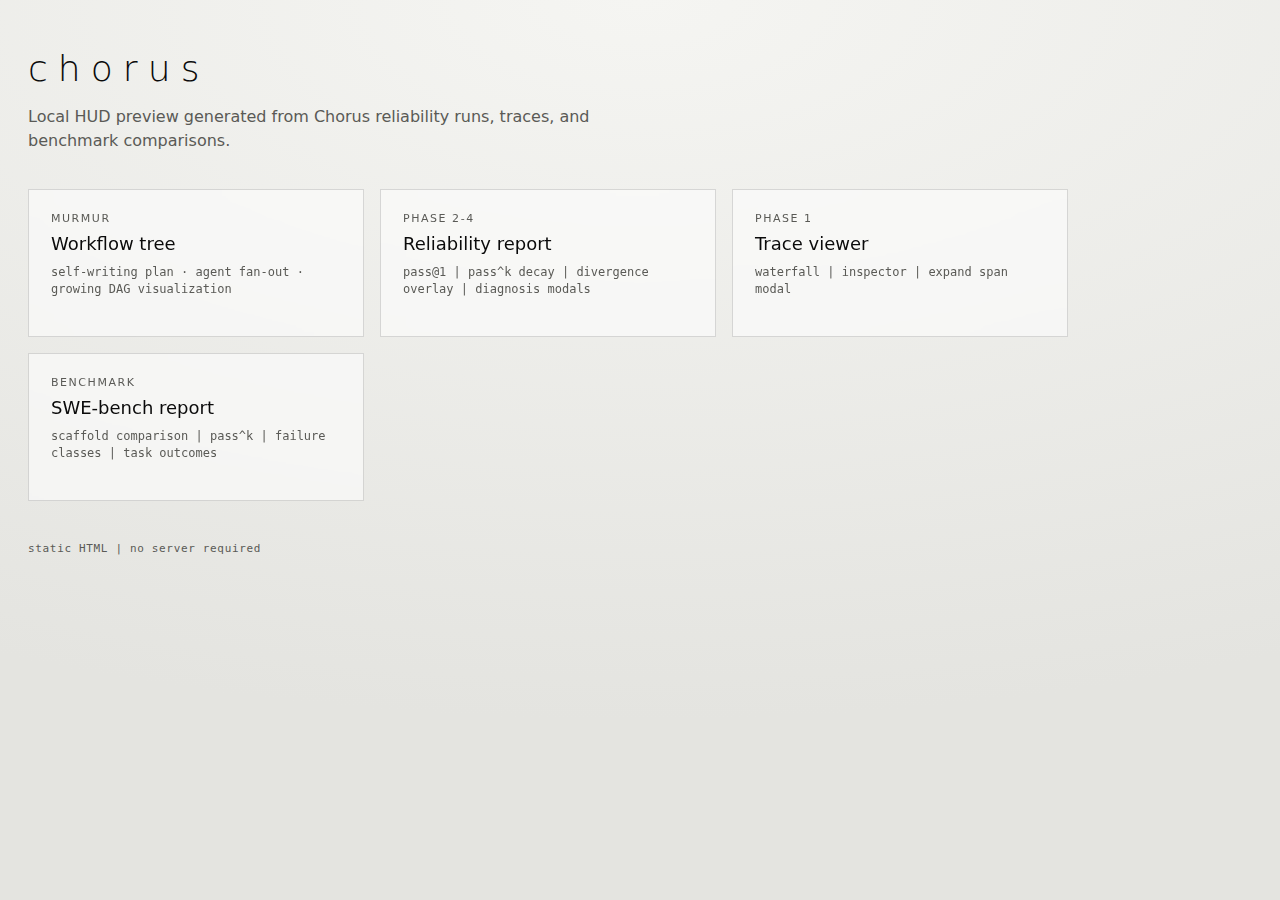
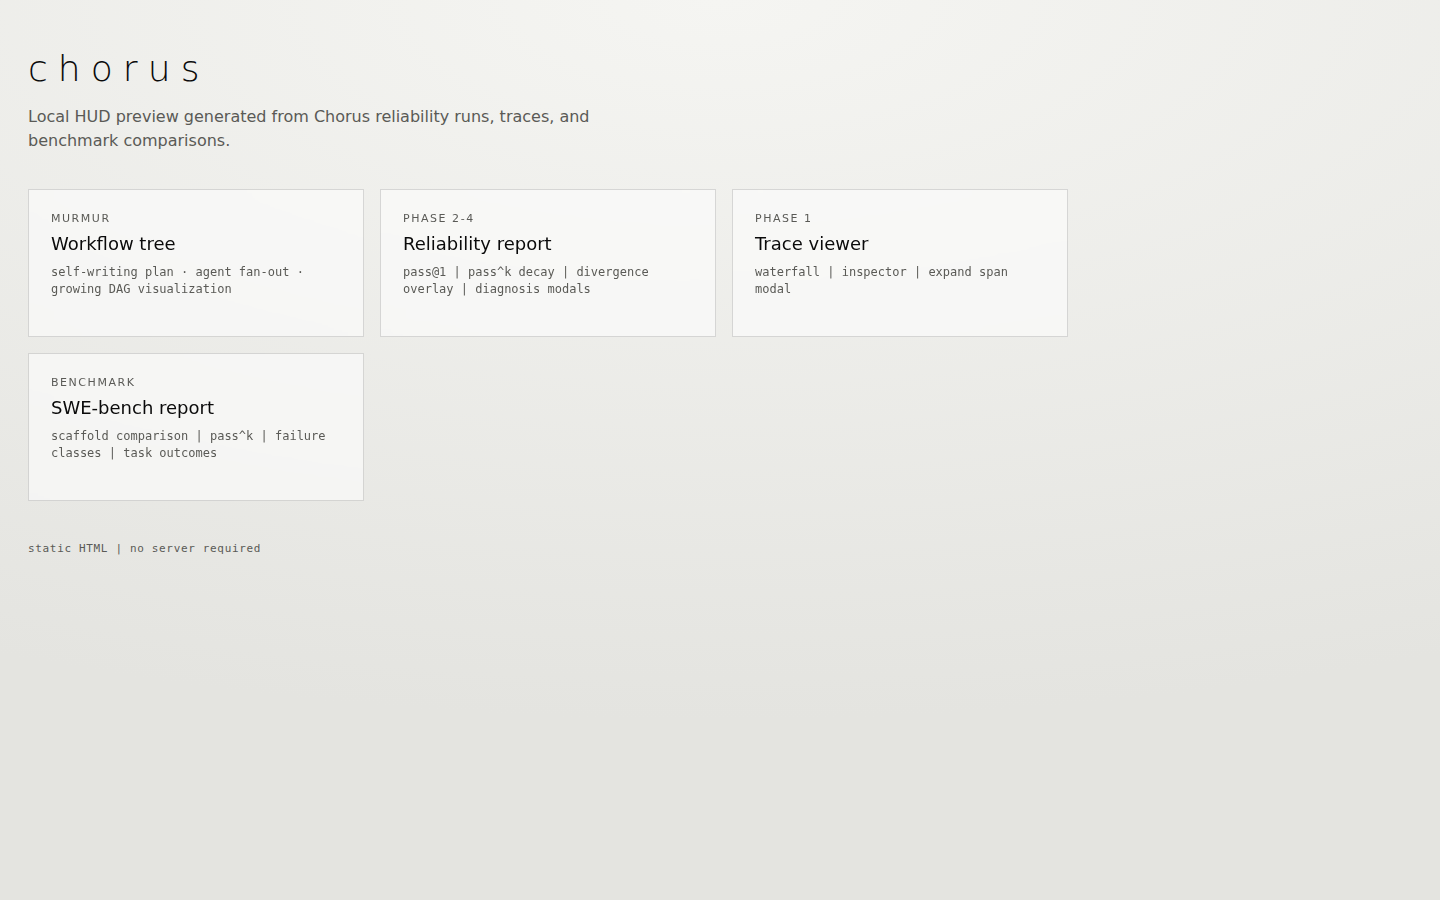
docs: professional README rewrite with trace viewer screenshot + project rename
- Rewrite README intro with professional Murmur description, comparison table,
  and detailed feature overview
- Add trace-viewer.png screenshot captured via Playwright
- Embed all three screenshots (workflow, fan report, trace viewer) in README
- Update pyproject.toml: rename to murmur-ai-harness, professional description
- Update GitHub origin URL to match renamed repo
- All 123 tests pass, ruff clean

diff --git a/README.md b/README.md
@@ -1,43 +1,66 @@
 <!--
-This is the repo entrypoint for humans. It explains what Murmur is, what works
-right now, and the commands needed to install, test, and run the local demo.
+Murmur — self-writing multi-agent orchestration for cost-efficient AI.
 -->
 
 # Murmur
 
 > *Thousands of cheap birds flocking into one intelligent shape.*
 
-Murmur is a self-writing multi-agent harness for cheap models. Give it a task
-and a cheap model (DeepSeek V4, or a local model via Ollama) — a **planner**
-writes its own task-specific workflow, and a **runtime** executes it by spawning
-many small subagents in parallel. Expensive patterns like fan-out, tournaments,
-and adversarial verification become pennies instead of dollars.
+**Murmur** is an open-source, self-writing multi-agent orchestration framework
+that makes frontier-grade AI workflows accessible on commodity models. Instead
+of hard-wiring agent graphs or paying premium rates for a single powerful model,
+Murmur's **planner** reads your task and *generates* its own typed workflow — a
+DAG of parallel subagents, adversarial verifiers, tournament rankers, and
+iterative repair loops — then its **runtime** executes that plan concurrently,
+merging results under a strict token budget.
 
-Murmur also includes a **contract and proof layer** for AI-generated code
-changes — turning a coding task into an enforceable engineering contract, running
-an agent through policy-controlled tools, verifying the resulting diff, and
-emitting a PR-ready proof package.
+### Why Murmur?
 
-The architecture is Python-first and hexagonal: the domain owns contracts,
-events, replay, metrics, and run orchestration; models, agents, storage,
-tracing, judges, and reports plug in through ports.
+| Approach | Workflow design | Model requirement | Cost |
+|---|---|---|---|
+| Static graphs (LangGraph, CrewAI) | Developer hand-codes | Any | Medium |
+| Claude Code dynamic workflows | Self-writing | Frontier only | High |
+| **Murmur** | **Self-writing** | **Cheap / local** | **~100× lower** |
+
+Heavy orchestration patterns — fan-out, tournaments, adversarial verification,
+closed-loop repair — become the *default* when each call costs fractions of a
+cent. Murmur manufactures reliability through **volume**, not model size.
+
+The framework also ships a **contract-and-proof layer** for AI-generated code
+changes: enforceable engineering contracts, policy-controlled tool execution,
+diff verification, and PR-ready proof packages — backed by distribution-aware
+reliability metrics (`pass@1` with Wilson CI, projected and empirical `pass^k`,
+divergence analysis, and cost-aware judgment cascades).
+
+The architecture is Python-first and hexagonal — the domain owns contracts,
+events, replay, metrics, and orchestration; models, agents, storage, tracing,
+judges, and reports plug in through ports.
+
+---
 
 ## Screenshots
 
-**Murmur Workflow Workbench** — interactive Three.js tree where you compose and
-execute multi-agent workflows:
+**Workflow Workbench** — interactive Three.js workspace for composing and
+visualizing multi-agent workflow DAGs in real time:
 
-![Murmur Workflow Workbench](docs/images/murmur-workflow.png)
+![Workflow Workbench](docs/images/murmur-workflow.png)
 
-**Reliability Fan Report** — pass@1, pass^k decay curve, divergence overlay,
-judgment cascade, and failure diagnosis from a seed-driven fan-out:
+**Reliability Fan Report** — pass@1 / pass^k decay curve, divergence overlay,
+judgment cascade, and failure diagnosis from a seed-driven N-trajectory fan-out:
 
 ![Reliability Fan Report](docs/images/fan-report.png)
 
+**Trace Viewer** — gen_ai.* span waterfall with per-trajectory timelines, token
+accounting, and an interactive inspector for every step of every run:
+
+![Trace Viewer](docs/images/trace-viewer.png)
+
+---
+
 ## Current slice
 
-This repo now includes the contract-first MVP plus the earlier reliability,
-trace, judgment, and CI-gate machinery from [docs/architecture.md](docs/architecture.md):
+This repo includes the contract-first MVP plus the reliability, trace, judgment,
+and CI-gate machinery from [docs/architecture.md](docs/architecture.md):
 
 - Contract-first `fix-test` execution: reproduce a failing command, compile a
   typed YAML contract, run a policy-controlled agent, verify the diff, and write
@@ -308,5 +331,5 @@ ran**; without them it exits with an actionable error rather than a placeholder.
 This checkout is configured for:
 
 ```bash
-origin https://github.com/Zwc-11/chorus.git   # pending rename to murmur
+origin https://github.com/Zwc-11/Murmur-ai-harness.git
 ```